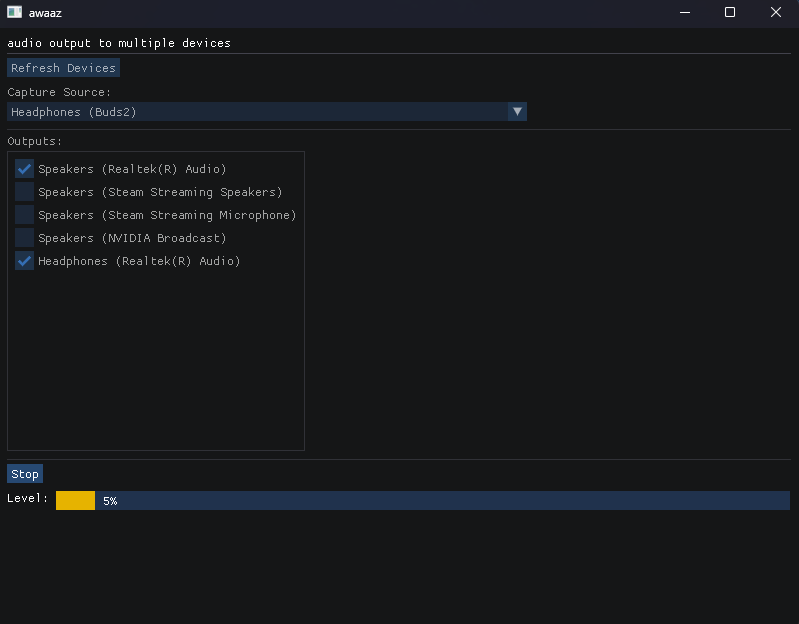
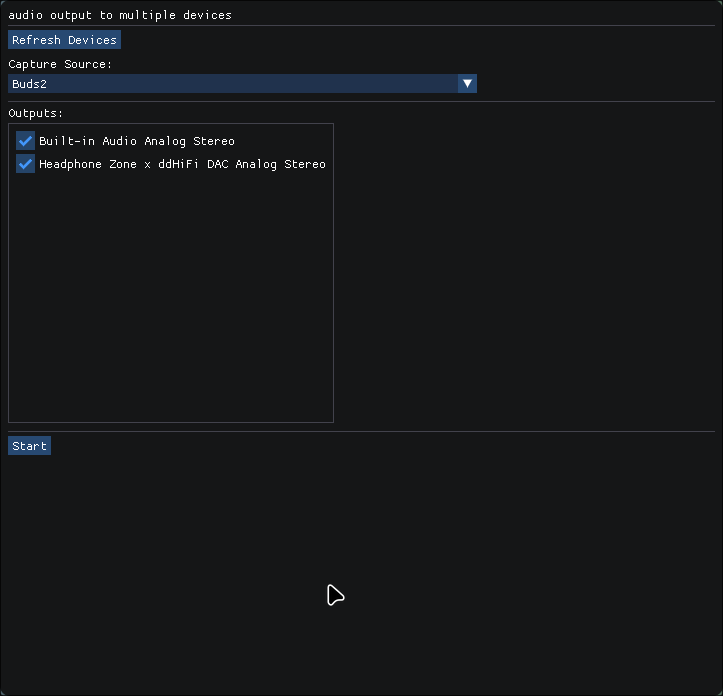
fix linux build, update screenshot

diff --git a/src/linux/audio_engine.c b/src/linux/audio_engine.c
@@ -3,7 +3,6 @@
 #include <pulse/pulseaudio.h>
 #include <stdatomic.h>
 #include <string.h>
-#include <math.h>
 
 #include <bace/bace.h>
 
@@ -184,9 +183,6 @@ internal void capture_read_cb(pa_stream *s, size_t nbytes, void *ud) {
     }
 
     if (data) {
-      const f32 *f = (const f32 *)data;
-      u32 nframes = (u32)(len / AE_FRAME_BYTES);
-
       for (u32 o = 0; o < g_output_count; o += 1) {
         pa_stream *out = g_outputs[o].stream;
 
